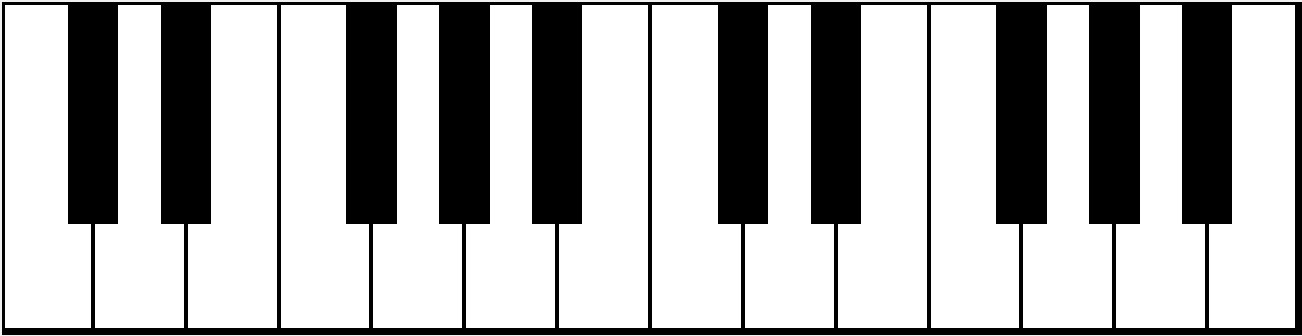
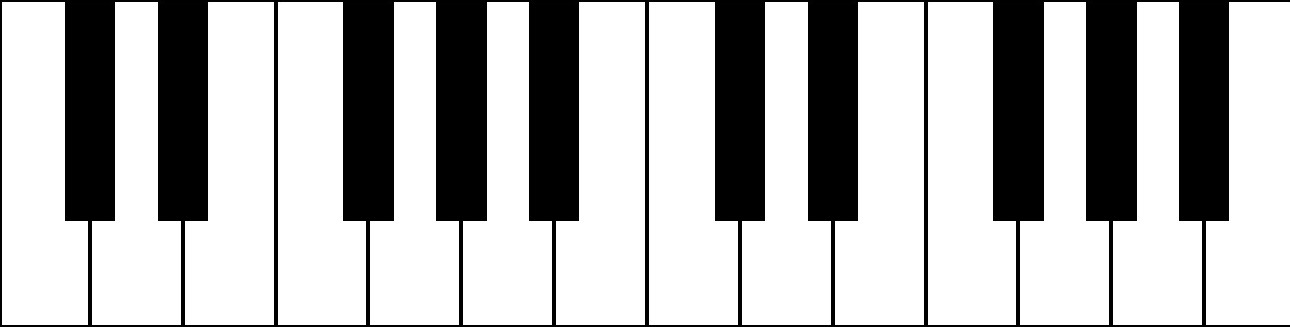
Website

diff --git a/HTML/main.html b/HTML/main.html
@@ -15,21 +15,53 @@
                 Piano Numérique
             </h1>
 			<a class="cards" href="https://www.example.com/">
-			C'est pour aller qq part
+			Présentation - Objectifs
 			</a>
 			<a class="cards" href="https://www.example.com/">
-			C'est pour aller qq part
+			Rapports de Développement
 			</a>
-			<a class="cards" href="https://www.example.com/">
-			C'est pour aller qq part
-			</a>
-			<a class="cards" href="https://www.example.com/">
-			C'est pour aller qq part
-			</a>
+			
+      <a id="download" href="https://www.example.com/">
+        <svg id="downloadButton" width="80" height="80">
+							<circle id="dCircle" r="36" cx="40" cy="40"/>
+              <polygon id="dArrow" points="40,60 20,40 32,40 32,3 48,3 48,40 60,40"/>
+				</svg>
+      </a>
+      <footer>
+        Créé par Stucki Adrien, Lepelletier Armand & Cendan Tristan - 2021
+      </footer>
        </div>
 
        <div id="droite">
-          <img src=>
+          <img id="pianoimg" src="piano_image.jpg">
+          <p>"Le meilleur logiciel musical que je n'ai jamais utilisé !"<br>
+            <svg height="20" width="100">
+              <polygon id="etoiles" points="10,1 4,20 19,8 1,8 16,20"/>
+              <polygon id="etoiles" points="30,1 24,20 39,8 21,8 36,20"/>
+              <polygon id="etoiles" points="50,1 44,20 59,8 41,8 56,20"/>
+              <polygon id="etoiles" points="70,1 64,20 79,8 61,8 76,20"/>
+              <polygon id="etoiles" points="90,1 84,20 99,8 81,8 96,20"/>
+            </svg>
+          </p>
+          <p>"Ce logiciel répond à toutes mes attentes."<br>
+            <svg height="20" width="100">
+              <polygon id="etoiles" points="10,1 4,20 19,8 1,8 16,20"/>
+              <polygon id="etoiles" points="30,1 24,20 39,8 21,8 36,20"/>
+              <polygon id="etoiles" points="50,1 44,20 59,8 41,8 56,20"/>
+              <polygon id="etoiles" points="70,1 64,20 79,8 61,8 76,20"/>
+              <polygon id="etoiles" points="90,1 84,20 99,8 81,8 96,20"/>
+            </svg>
+          </p>
+          <p>"C'est le piano numérique le plus complet que j'ai jamais vu !"<br>
+            <svg height="20" width="100">
+              <polygon id="etoiles" points="10,1 4,20 19,8 1,8 16,20"/>
+              <polygon id="etoiles" points="30,1 24,20 39,8 21,8 36,20"/>
+              <polygon id="etoiles" points="50,1 44,20 59,8 41,8 56,20"/>
+              <polygon id="etoiles" points="70,1 64,20 79,8 61,8 76,20"/>
+              <polygon id="etoiles" points="90,1 84,20 99,8 81,8 96,20"/>
+            </svg>
+          </p>
+          <p id="legendeAvis">Compilation de commentaires laissés par des utilisateurs anonymes<br></p>
        </div>
       </div>
   </body>

diff --git a/HTML/main.css b/HTML/main.css
@@ -27,7 +27,6 @@ h1 {
     font-family: 'Roboto', sans-serif;
     font-size: 60px;
     margin: 30px;
-	margin-top: 50px;
     color: #D4AF37;
     
     
@@ -37,8 +36,7 @@ h1 {
 	display:inline-block;
 	width: 40%;
 	height: 150px;
-	margin: 30px;
-    margin-bottom: 120px;
+	margin: 20px 30% 50px 30%;
 	border: 2px double #D4AF37;
 	border-radius: 12px;
 	transition: transform .2s;
@@ -52,6 +50,52 @@ h1 {
 
 .cards:hover {
 	transform: scale(1.2);
+    box-shadow: 2px 2px;
+    font-size: 20px;
+}
+
+#download {
+    margin-left: auto;
+    display: inline-block;
+}
+
+#downloadButton {
+    transition: transform .1s;
+}
+
+#dCircle {
+    fill: white;
+    stroke: #D4AF37;
+    stroke-width: 4;
+}
+
+#dArrow {
+    fill: #D4AF37;
+}
+
+#downloadButton:hover {
+    transform: scale(1.1);
+}
+
+#downloadButton:hover #dCircle {
+    stroke: #9c7b0e;
+}
+
+#downloadButton:hover #dArrow {
+    fill: #9c7b0e;
+}
+
+#downloadButton:active {
+    transform: scale(0.2);
+}
+
+footer {
+    position: fixed;
+    bottom: 0;
+    margin: 12px;
+    font-size: 12px;
+    text-align: left;
+    font-family: 'Roboto', sans-serif;
 }
 
 #droite{
@@ -61,4 +105,37 @@ h1 {
     background-color: #000336;
 	padding-bottom: 100%;
     
+}
+
+#pianoimg {
+    margin-top: 10%;
+    width: 80%;
+    height: auto;
+}
+
+p {
+    margin-top: 80px;
+    color: grey;
+    font-size: 18px;
+    font-family: 'Roboto', sans-serif;
+    font-style: italic;
+}
+
+svg {
+    margin-top: 10px;
+}
+
+#etoiles {
+    fill: #d4af37;
+    stroke: #9c7b0e;
+}
+
+#legendeAvis {
+    text-align: right;
+    font-size: 14px;
+    color: darkgray;
+    font-family: 'Roboto', sans-serif;
+    font-weight: 600;
+    font-style: normal;
+    margin-right: 20px;
 }
